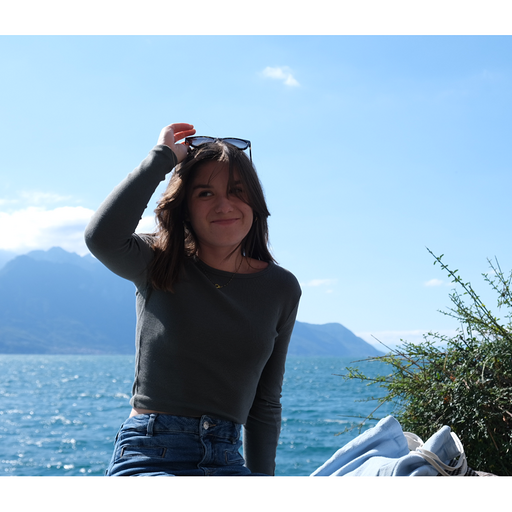
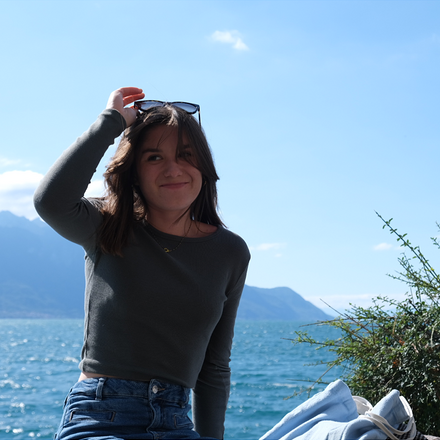
horizontal scroll

diff --git a/docs/association/index.html b/docs/association/index.html
@@ -248,7 +248,7 @@
             <div class="card shadow-sm">
               
                 
-                <img src="https://antoninfaure.github.io/site-180/images/membres/2022/syb_hua2f4c44e78b76aeb16dd76d3bcd715f9_415431_500x0_resize_box_3.png" class="img-fluid card-img-top">
+                <img src="https://antoninfaure.github.io/site-180/images/membres/2022/syb_hua2f4c44e78b76aeb16dd76d3bcd715f9_415431_500x500_fill_box_smart1_3.png" class="img-fluid card-img-top">
               
               <div class="card-body text-center">
                 <h4 class="ml-1">
@@ -271,7 +271,7 @@
             <div class="card shadow-sm">
               
                 
-                <img src="https://antoninfaure.github.io/site-180/images/membres/2022/kenza_hub101cbc2706dd9c302e469e000b8b2de_135303_500x0_resize_q75_box.jpeg" class="img-fluid card-img-top">
+                <img src="https://antoninfaure.github.io/site-180/images/membres/2022/kenza_hub101cbc2706dd9c302e469e000b8b2de_135303_500x500_fill_q75_box_smart1.jpeg" class="img-fluid card-img-top">
               
               <div class="card-body text-center">
                 <h4 class="ml-1">
@@ -290,7 +290,7 @@
             <div class="card shadow-sm">
               
                 
-                <img src="https://antoninfaure.github.io/site-180/images/membres/2022/louis_hu8d7acf00b339e4413aea52d4c96b379a_108928_500x0_resize_q75_box.jpeg" class="img-fluid card-img-top">
+                <img src="https://antoninfaure.github.io/site-180/images/membres/2022/louis_hu8d7acf00b339e4413aea52d4c96b379a_108928_500x500_fill_q75_box_smart1.jpeg" class="img-fluid card-img-top">
               
               <div class="card-body text-center">
                 <h4 class="ml-1">
@@ -309,7 +309,7 @@
             <div class="card shadow-sm">
               
                 
-                <img src="https://antoninfaure.github.io/site-180/images/membres/2022/mailys_hu7bcbf5e75b4c4ee0e33372788a0c665b_169351_500x0_resize_q75_box.jpeg" class="img-fluid card-img-top">
+                <img src="https://antoninfaure.github.io/site-180/images/membres/2022/mailys_hu7bcbf5e75b4c4ee0e33372788a0c665b_169351_500x500_fill_q75_box_smart1.jpeg" class="img-fluid card-img-top">
               
               <div class="card-body text-center">
                 <h4 class="ml-1">
@@ -328,7 +328,7 @@
             <div class="card shadow-sm">
               
                 
-                <img src="https://antoninfaure.github.io/site-180/images/membres/2022/antonin_huc0abadb6b7db647c04ffefdda852bb2a_166579_500x0_resize_q75_box.jpeg" class="img-fluid card-img-top">
+                <img src="https://antoninfaure.github.io/site-180/images/membres/2022/antonin_huc0abadb6b7db647c04ffefdda852bb2a_166579_500x500_fill_q75_box_smart1.jpeg" class="img-fluid card-img-top">
               
               <div class="card-body text-center">
                 <h4 class="ml-1">
@@ -347,7 +347,7 @@
             <div class="card shadow-sm">
               
                 
-                <img src="https://antoninfaure.github.io/site-180/images/membres/2022/olivier_hu2f88fbaf2efd4f28bcb05fe6745666da_198144_500x0_resize_q75_box.jpeg" class="img-fluid card-img-top">
+                <img src="https://antoninfaure.github.io/site-180/images/membres/2022/olivier_hu2f88fbaf2efd4f28bcb05fe6745666da_198144_500x500_fill_q75_box_smart1.jpeg" class="img-fluid card-img-top">
               
               <div class="card-body text-center">
                 <h4 class="ml-1">
@@ -495,7 +495,7 @@
             <div class="card shadow-sm card-dark">
               
                 
-                <img src="https://antoninfaure.github.io/site-180/images/membres/2022/clemence_hubef3fadcaf43d3f3c61bf0457b6e5b80_284959_500x0_resize_box_3.png" class="img-fluid card-img-top">
+                <img src="https://antoninfaure.github.io/site-180/images/membres/2022/clemence_hua47f1aa62c7c13a460670b0f918eb8e7_318538_500x0_resize_box_3.png" class="img-fluid card-img-top">
               
               <div class="card-body text-center">
                 <h4 class="ml-1">

diff --git a/docs/crieur/index.html b/docs/crieur/index.html
@@ -94,11 +94,11 @@
     <div class="col-12 py-4 m-0">
       <div id="map"></div>
     </div>
-    <div class="row m-0" style="overflow-x: scroll;">
+    <div class="row m-0" style="overflow-x: scroll; white-space: nowrap; flex-wrap: nowrap; display: block;">
       
-      <div class="col-12 col-md-6 col-lg-4 m-0 p-4">
+      <div class="col-12 col-md-6 col-lg-4 m-0 p-4" style="display: inline-block;">
         <a href="https://antoninfaure.github.io/site-180/crieur/brasserie-du-chateau/">
-          <div class="card shadow-sm">
+          <div class="card shadow">
             
               
               
@@ -115,9 +115,9 @@
         </a>
       </div>
       
-      <div class="col-12 col-md-6 col-lg-4 m-0 p-4">
+      <div class="col-12 col-md-6 col-lg-4 m-0 p-4" style="display: inline-block;">
         <a href="https://antoninfaure.github.io/site-180/crieur/slice-pizza/">
-          <div class="card shadow-sm">
+          <div class="card shadow">
             
               
               
@@ -134,9 +134,9 @@
         </a>
       </div>
       
-      <div class="col-12 col-md-6 col-lg-4 m-0 p-4">
+      <div class="col-12 col-md-6 col-lg-4 m-0 p-4" style="display: inline-block;">
         <a href="https://antoninfaure.github.io/site-180/crieur/tibits/">
-          <div class="card shadow-sm">
+          <div class="card shadow">
             
               
               
@@ -153,9 +153,9 @@
         </a>
       </div>
       
-      <div class="col-12 col-md-6 col-lg-4 m-0 p-4">
+      <div class="col-12 col-md-6 col-lg-4 m-0 p-4" style="display: inline-block;">
         <a href="https://antoninfaure.github.io/site-180/crieur/tom-cafe/">
-          <div class="card shadow-sm">
+          <div class="card shadow">
             
               
             

diff --git a/layouts/crieur/list.html b/layouts/crieur/list.html
@@ -16,11 +16,11 @@
     <div class="col-12 py-4 m-0">
       <div id="map"></div>
     </div>
-    <div class="row m-0" style="overflow-x: scroll;">
+    <div class="row m-0" style="overflow-x: scroll; white-space: nowrap; flex-wrap: nowrap; display: block;">
       {{ range ( where .Site.RegularPages "Type" "crieur" ) }}
-      <div class="col-12 col-md-6 col-lg-4 m-0 p-4">
+      <div class="col-12 col-md-6 col-lg-4 m-0 p-4" style="display: inline-block;">
         <a href="{{ .Permalink }}">
-          <div class="card shadow-sm">
+          <div class="card shadow">
             {{ $thumbnail := "none" }}
             {{ if isset .Params "banner" }} {{ $thumbnail = .Params.banner}} {{ end }}
             {{ if isset .Params "front" }} {{ $thumbnail = .Params.front }} {{ end }}

diff --git a/layouts/association/single.html b/layouts/association/single.html
@@ -61,7 +61,7 @@
           <div class="col-12 col-md-6 col-lg-3 my-2">
             <div class="card shadow-sm">
               {{ with resources.Get .photo }}
-                {{ $image := .Resize "500x" }}
+                {{ $image := .Fill "500x500" }}
                 <img src="{{ $image.Permalink }}" class="img-fluid card-img-top">
               {{ end }}
               <div class="card-body text-center">

diff --git a/layouts/crieur/single.html b/layouts/crieur/single.html
@@ -77,7 +77,7 @@
       {{ if isset .Params "tops" }}
       <hr>
       <div class="col-12 py-4 text-center">
-        <h2>Recommendations</h2>
+        <h2>Recommandations</h2>
         <div class="row m-0 p-0 justify-content-center">
           {{ range .Params.tops }}
           <div class="col-12 col-md-6 col-lg-4 m-0 p-4">

diff --git a/docs/crieur/brasserie-du-chateau/index.html b/docs/crieur/brasserie-du-chateau/index.html
@@ -151,7 +151,7 @@
       
       <hr>
       <div class="col-12 py-4 text-center">
-        <h2>Recommendations</h2>
+        <h2>Recommandations</h2>
         <div class="row m-0 p-0 justify-content-center">
           
           <div class="col-12 col-md-6 col-lg-4 m-0 p-4">

diff --git a/docs/crieur/tibits/index.html b/docs/crieur/tibits/index.html
@@ -155,7 +155,7 @@
       
       <hr>
       <div class="col-12 py-4 text-center">
-        <h2>Recommendations</h2>
+        <h2>Recommandations</h2>
         <div class="row m-0 p-0 justify-content-center">
           
           <div class="col-12 col-md-6 col-lg-4 m-0 p-4">
